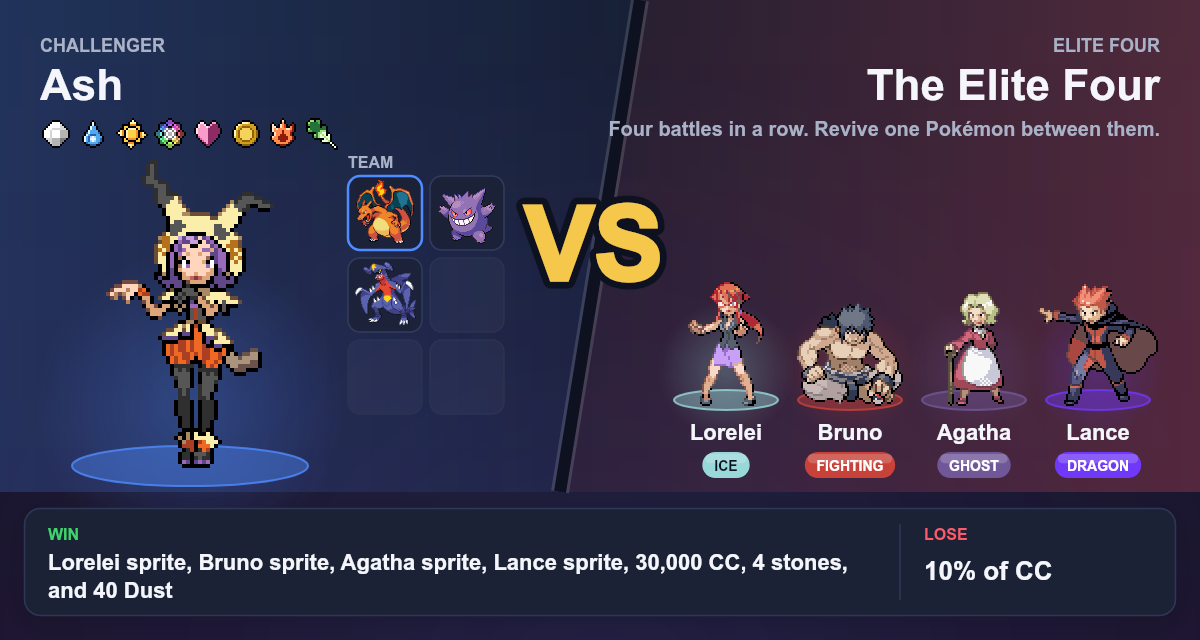
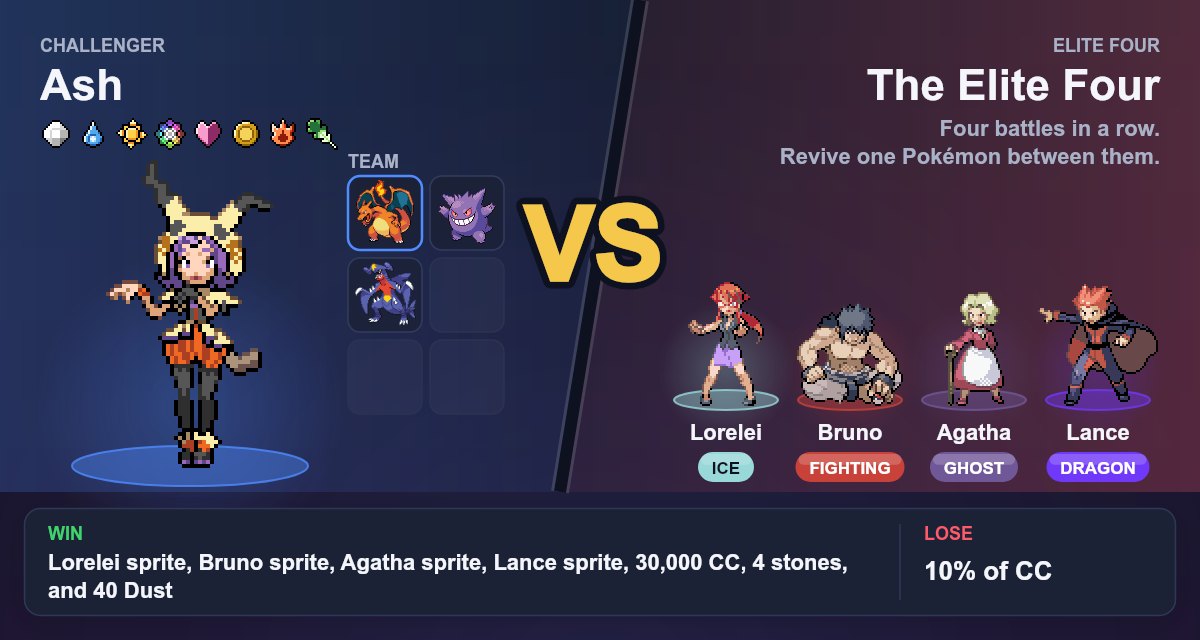
Fall back to the embed when the card's facts can't be built; card text at design-system sizes
The card view is built under the lock before the fight is saved, so a
failure there now sends the embed instead of stalling the click. The
Elite Four rule line is 22 px on two lines, labels are 18 px, and the
Elite Four type chips are full size.

diff --git a/commands/challenge.js b/commands/challenge.js
@@ -99,12 +99,24 @@ export function previewEmbed(key, preview, { exactLoss = false } = {}) {
   );
 }
 
+// The VS card's facts, or null when they can't be built. It runs under the
+// lock before the fight is saved, so it must never throw there.
+export function cardView(key, preview, user, displayName) {
+  try {
+    return challengeCardView(key, preview, user, { displayName });
+  } catch (err) {
+    console.warn("⚠ challenge card view failed; sending the embed:", err?.message || err);
+    return null;
+  }
+}
+
 // The preview and the public intro: the VS card, or previewEmbed when it
-// can't render. `view` is challengeCardView(), built before the fight is
+// can't be built or rendered. `view` is challengeCardView(), built before the fight is
 // saved so the intro shows the Badge still on the line. Only the private
 // preview (exactLoss) says the amount, in text: the card itself goes public.
 export async function previewMessage(key, preview, view, { exactLoss = false, render = renderChallengeCard } = {}) {
   try {
+    if (!view) throw new Error("no card view");
     const png = await render(view);
     return {
       ...(exactLoss && { content: `A loss costs you **${n(preview.loss)} CC**.` }),
@@ -271,7 +283,7 @@ export async function execute(interaction, trainerData, _saveLocal, _saveDiscord
   // A loss never costs more than this preview shows, even if the balance grows before Fight!.
   const shown = previewChallenge(trainerData[userId], key);
   const nonce = randomUUID();
-  const view = challengeCardView(key, shown, trainerData[userId], { displayName: playerName });
+  const view = cardView(key, shown, trainerData[userId], playerName);
   const response = await interaction.reply({
     ...(await previewMessage(key, shown, view, { exactLoss: true })),
     components: [new ActionRowBuilder().addComponents(
@@ -307,7 +319,7 @@ export async function execute(interaction, trainerData, _saveLocal, _saveDiscord
       const live = trainerData[userId];
       const atStake = live && previewChallenge(live, key);
       // Built before the fight changes the record, so the intro shows the Badge still on the line.
-      const card = live && challengeCardView(key, atStake, live, { displayName: playerName });
+      const card = live && cardView(key, atStake, live, playerName);
       const seed = randomInt(0, 2 ** 31 - 1);
       const out = isRun
         ? startRun({ trainerData, userId, seed, maxLoss: shown.loss, channelId: interaction.channelId })
@@ -325,7 +337,7 @@ export async function execute(interaction, trainerData, _saveLocal, _saveDiscord
 
     let posted = true;
     let outcome = first;
-    const trainer = first.card.player.trainerFile; // the replay's portrait, as on the intro card
+    const trainer = first.card?.player.trainerFile ?? null; // the replay's portrait, as on the intro card
     try {
       await interaction.channel.send(await previewMessage(key, first.atStake, first.card));
     } catch (err) {

diff --git a/utils/render/challengeCard.js b/utils/render/challengeCard.js
@@ -172,7 +172,7 @@ async function drawPlayer(ctx, v, { player: slot, badges }) {
   // The battle Team, 2 × 3, at 1× (clear of the VS on the seam).
   const gx = 348, gy = 176, cell = 74, gap = 8;
   ctx.textAlign = "left";
-  ctx.font = font(16, 800);
+  ctx.font = font(18, 800);
   ctx.fillStyle = COLOR.textMuted;
   ctx.fillText("TEAM", gx, gy - 8);
   const ph = await loadPlaceholder();
@@ -227,7 +227,7 @@ async function drawMedallion(ctx, v, m) {
   drawSparkle(ctx, m.cx - m.r * 0.86, m.cy + m.r * 0.5, 6);
   ctx.textAlign = "center";
   ctx.textBaseline = "alphabetic";
-  ctx.font = font(16, 800);
+  ctx.font = font(18, 800);
   ctx.fillStyle = COLOR.textMuted;
   ctx.fillText(v.rematch ? "REMATCH" : "ON THE LINE", m.cx, m.cy - m.r - 14);
   ctx.font = font(22, 800);
@@ -245,10 +245,14 @@ async function drawOpponents(ctx, v, slots) {
     if (slots.medallion) await drawMedallion(ctx, v, slots.medallion);
     return;
   }
+  // A rule the player can't see anywhere else before Fight!: 22 px, the
+  // design system's floor for text a player must read, on two lines to stay
+  // clear of the seam.
   ctx.textAlign = "right";
-  ctx.font = font(20, 600);
+  ctx.font = font(22, 600);
   ctx.fillStyle = COLOR.textMuted;
-  ctx.fillText("Four battles in a row. Revive one Pokémon between them.", right, M + 112);
+  ctx.fillText("Four battles in a row.", right, M + 112);
+  ctx.fillText("Revive one Pokémon between them.", right, M + 140);
   for (const [i, o] of v.opponents.entries()) {
     const s = slots.opponents[i];
     const accent = typeStyle(o.type).fill;
@@ -258,8 +262,8 @@ async function drawOpponents(ctx, v, slots) {
     ctx.font = font(22, 800);
     ctx.fillStyle = COLOR.text;
     ctx.fillText(fitText(ctx, o.name, s.box.w - 6), s.cx, s.floor + 40);
-    const w = typeChipsWidth(ctx, [o.type], { h: 26, size: 14 });
-    drawTypeChip(ctx, o.type, s.cx - w / 2, s.floor + 52, { h: 26, size: 14 });
+    const w = typeChipsWidth(ctx, [o.type], { h: 30, size: 17 });
+    drawTypeChip(ctx, o.type, s.cx - w / 2, s.floor + 52, { h: 30, size: 17 });
   }
 }
 
@@ -291,7 +295,7 @@ function drawPrizeBar(ctx, v) {
   const block = (label, color, text, x, maxW) => {
     ctx.textAlign = "left";
     ctx.textBaseline = "alphabetic";
-    ctx.font = font(16, 800);
+    ctx.font = font(18, 800);
     ctx.fillStyle = color;
     ctx.fillText(label, x, y + 32);
     const { size, lines } = prizeLines(ctx, text, maxW);

diff --git a/tests/challengeCommand.test.js b/tests/challengeCommand.test.js
@@ -8,7 +8,7 @@
 // ==========================================================
 
 import { assertEqual, assertTrue, section, finish } from "./harness.js";
-import { execute, data, refusal, boardEmbed, reviveMenu, previewMessage } from "../commands/challenge.js";
+import { execute, data, refusal, boardEmbed, reviveMenu, previewMessage, cardView } from "../commands/challenge.js";
 import { challengeCardView, cardAltText, cardSlots, CHALLENGE_CARD_SIZE } from "../utils/render/challengeCard.js";
 import { previewChallenge } from "../utils/challenge/runChallenge.js";
 import { createCanvas, loadImage } from "@napi-rs/canvas";
@@ -312,6 +312,14 @@ section("Preview: the embed when the card can't render");
   assertEqual(field("Win"), "Brock sprite, 2,500 CC, 1 stone, and 5 Dust", "the prize");
   assertEqual(field("Lose"), "1,234 CC (10% of your CC)", "the exact loss, privately");
   assertEqual(embedJson(pub.embeds[0]).fields.find((f) => f.name === "Lose").value, "10% of their CC", "and 10% in public");
+
+  // Building the card's facts can fail too (before the fight is saved, under the lock): the embed still goes.
+  console.warn = () => {};
+  const broken = cardView("no-such-challenge", preview, user, "Ash");
+  const noView = await previewMessage("brock", preview, broken, { exactLoss: true });
+  console.warn = quietWarn;
+  assertEqual(broken, null, "facts that can't be built give no view, without throwing");
+  assertEqual(embedJson(noView.embeds[0]).fields.find((f) => f.name === "Lose").value, "1,234 CC (10% of your CC)", "and the preview sends the embed");
 }
 
 section("Not now and expiry");
